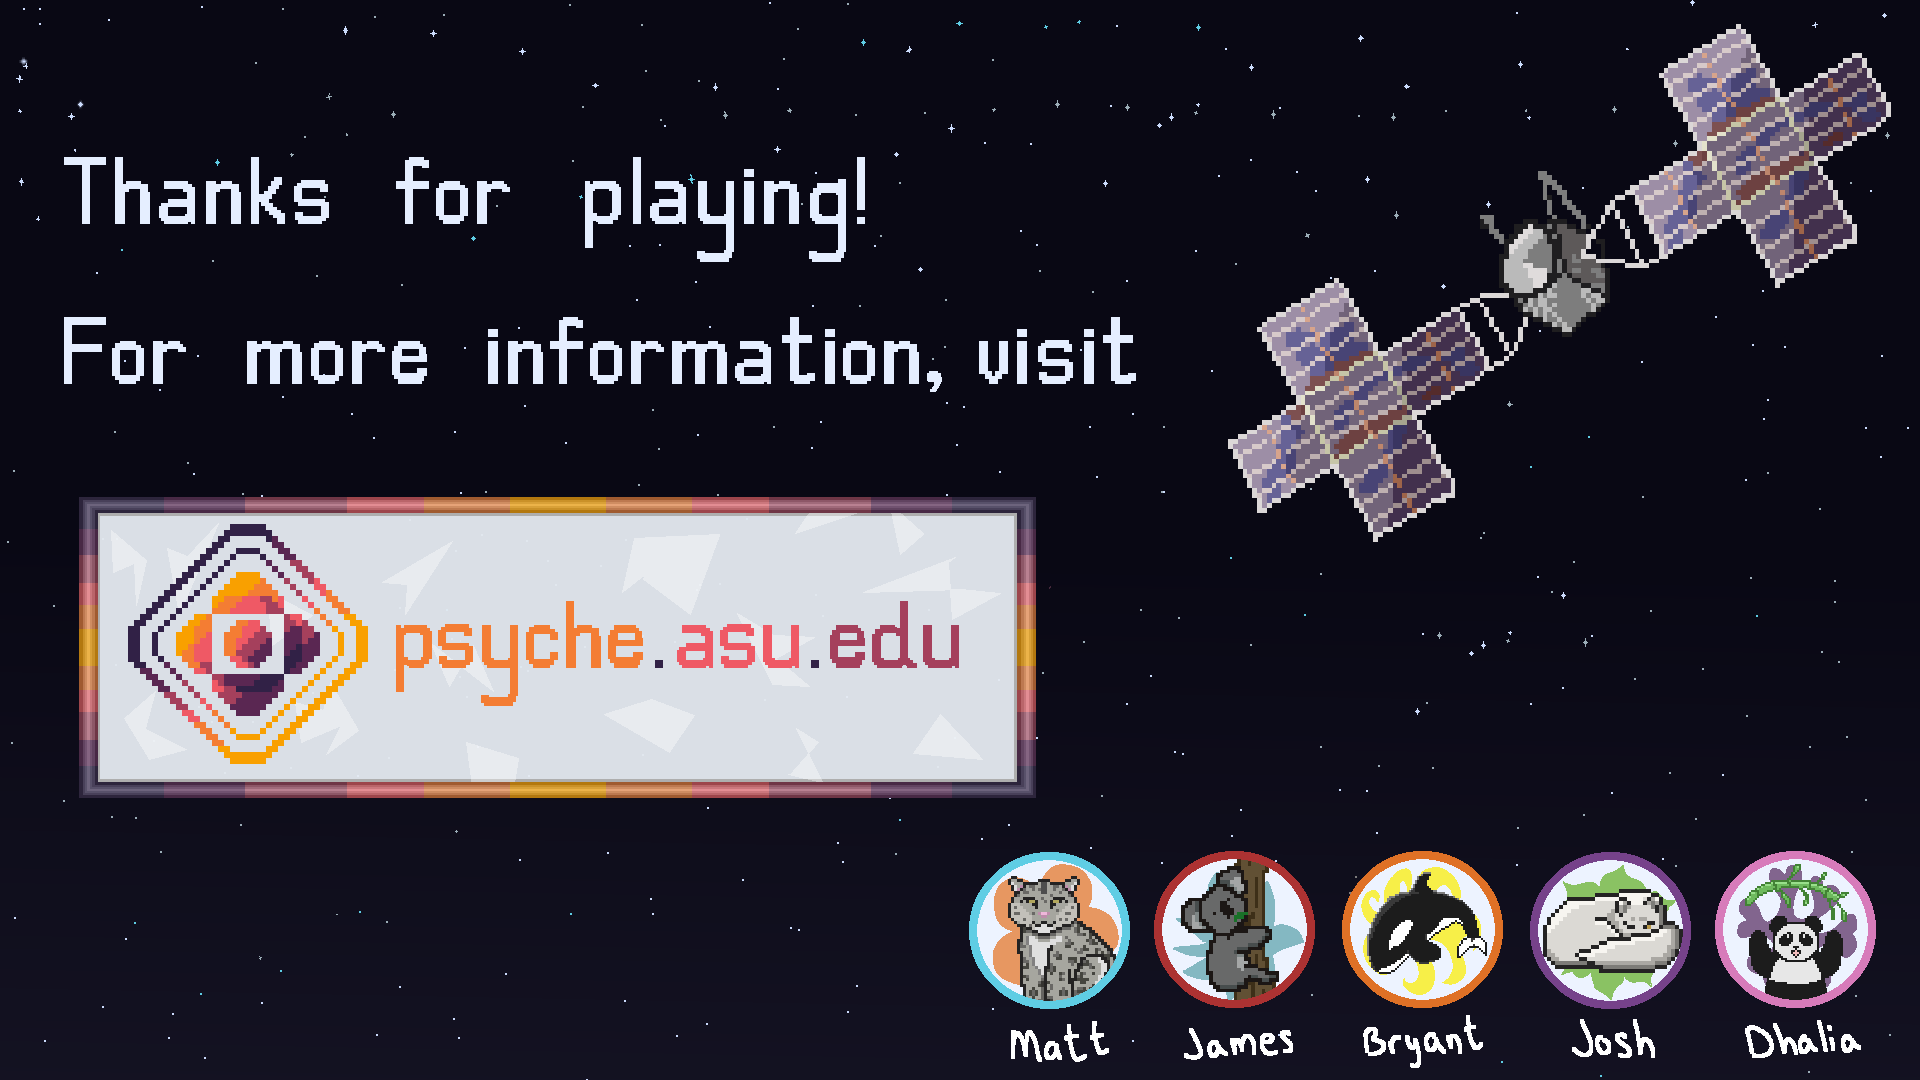
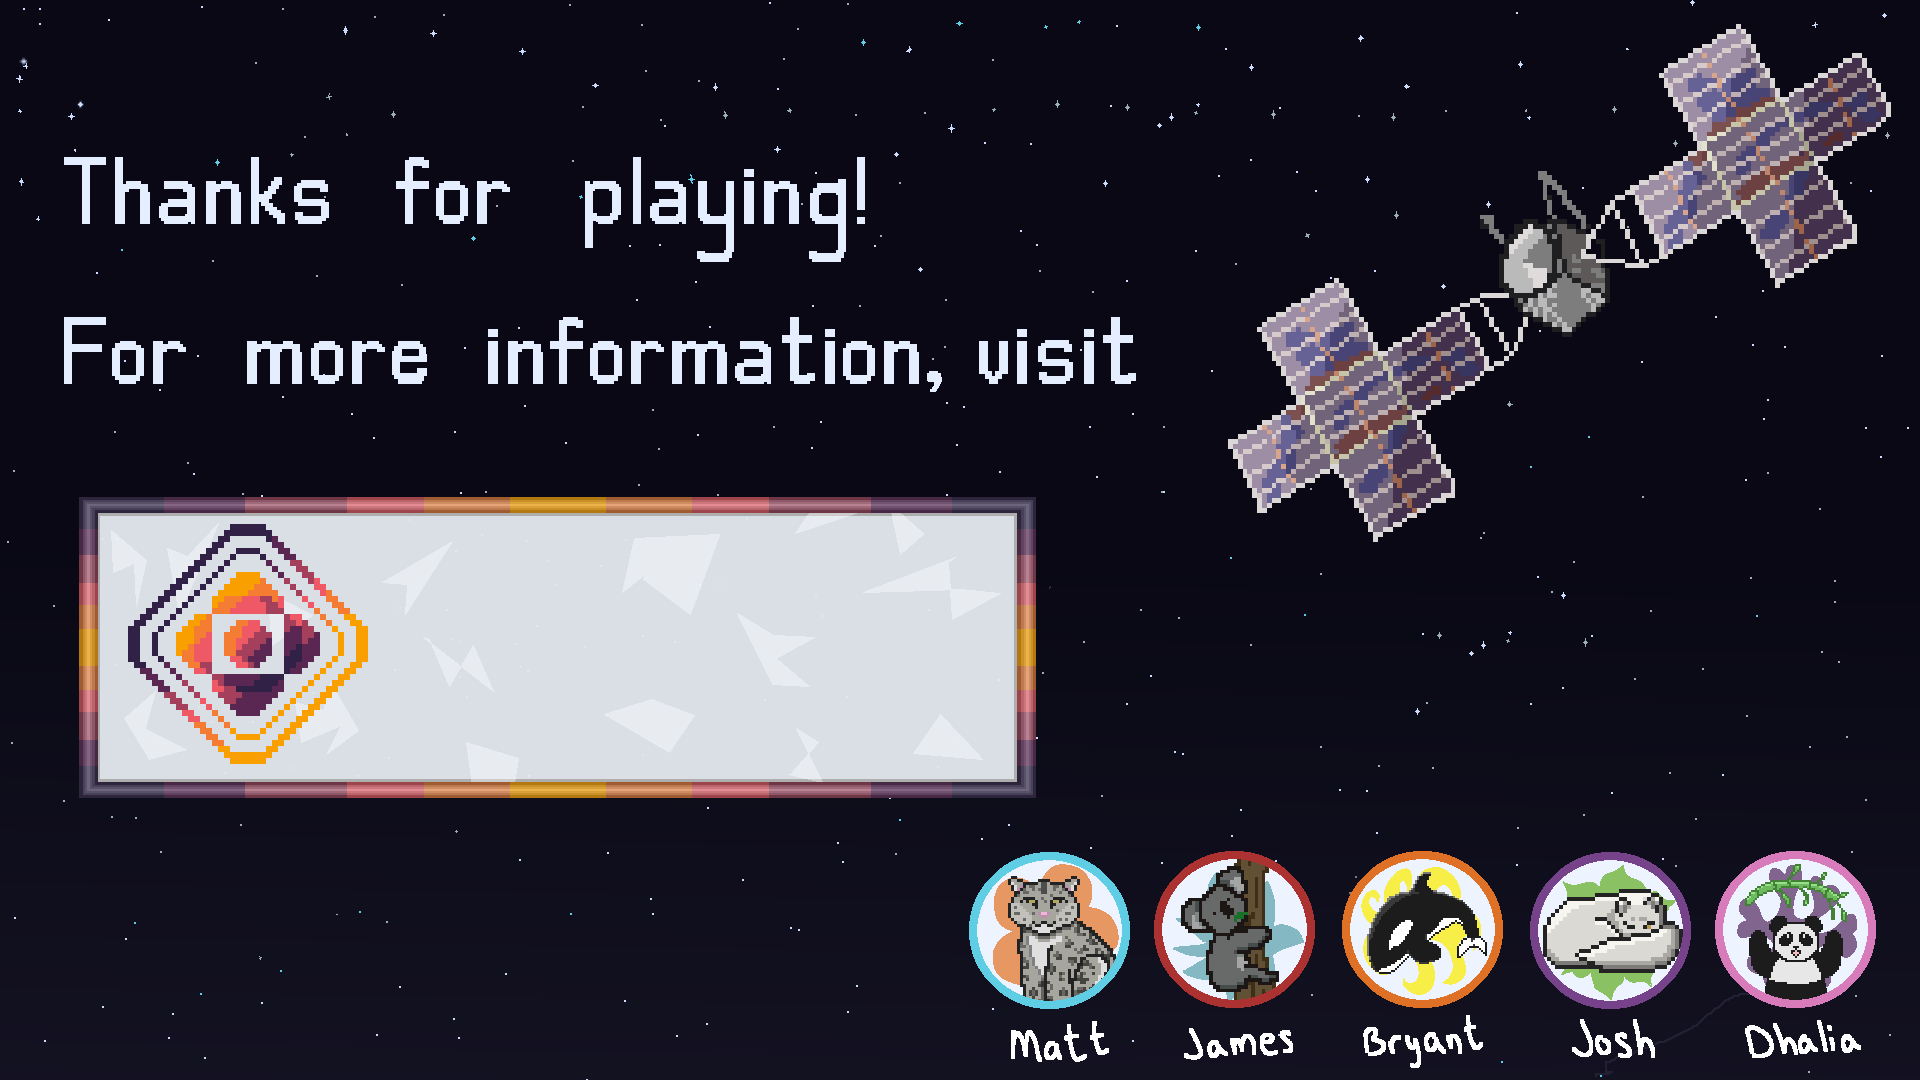
link on the outro4 is now clickable and has a different sprite when hovered over

Changed region(s): [[0.1875, 0.55, 0.5, 0.6722]]

diff --git a/Psyche/Assets/Scripts/UI/OutroController.cs b/Psyche/Assets/Scripts/UI/OutroController.cs
@@ -9,7 +9,7 @@ using System.Collections;
 /// Author: jmolive8, blopezro, dnguye99
 public class OutroController : MonoBehaviour {
 
-    public GameObject outro1, outro2, outro3, outro4, clickText, quitButton;
+    public GameObject outro1, outro2, outro3, outro4, clickText, quitButton, link;
     private Image img1, img2, img3, img4;
     int curScreen = 1;
 
@@ -75,10 +75,21 @@ public class OutroController : MonoBehaviour {
 
                         //enable the quit button
                         quitButton.SetActive(true);
+
+                        //enable the link
+                        link.SetActive(true);
                     }
                     break;
             }
         }
+    }
+
+    /// <summary>
+    /// Opens a link to psyche.asu.edu when the player clicks the link on outro4
+    /// </summary>
+    public void OpenLink()
+    {
+        Application.OpenURL("https://psyche.asu.edu/");
     }
 
     /// <summary>
@@ -136,5 +147,8 @@ public class OutroController : MonoBehaviour {
 
         //enable the quit button
         quitButton.SetActive(true);
+
+        //enable link
+        link.SetActive(true);
     }
 }
